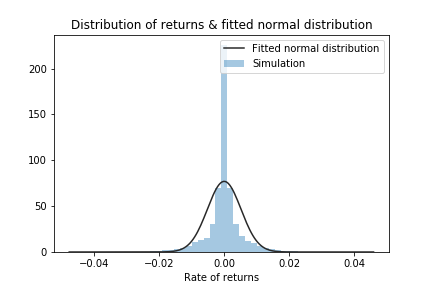
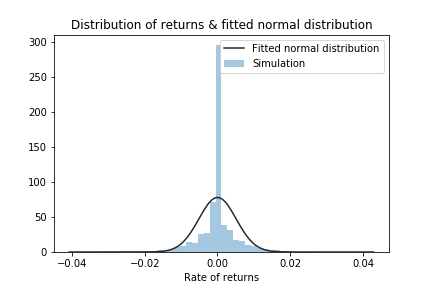
thesis: continued results

diff --git a/thesis/content/results.tex b/thesis/content/results.tex
@@ -80,9 +80,86 @@ simulation starting with higher market price.
 
 
 % stylized facts
-The stylized facts are also inline with the literature. There is no autocorrelation
-in the relative changes in the market price as seen in figure n. In addition, with
-current setup there are some volatility clusters with 10 trade window.
+% Somethging about filtering fist 100 out and now inspecting stylized facts
+As stated before, the representativeness of real markets is inspected using
+stylized facts. In order to have represenative data set to test the facts, the
+sessions before reaching the price equilibrium are filtered out. 
+As observed in ~\ref{fig:basic_trades}, the model reaches the equlibrium 
+price before the 100th trading session and after that both of the initiations 
+yield similar price and quantity processes. Therefore, for simplicity the
+the first 100 trading sessions are filtered out from the simulation with
+lower initiated market price and the data produced from it is used for 
+studying the stylized facts in the model.
 
+The autocorrelation function (ACF) and partial autocorrelation function (PACF) for the last prices of
+each session are plotted in the figure ~\ref{fig:basic_autocorr}. ACF and PACF indicate that there is 
+an autoregressive (AR) process for up to 15 lags and a moving average (MA) process to the third lag. Therefore
+there is a clear autocorrelation in the model with the stated simulation parameters. This
+observation is possibly caused by option for doing nothing which occurs with slightly higher than
+one-third probability due to slight chance for invalid order submission. As the price in each order
+is dependent on the market price which was when the order was created and as there is a chance that
+this order will stay in the order book for some time, the price in the past has influence on the
+current structure of the order book and therefore a past market prices has effect on the upcoming prices.
+This indicates that if the zero intelligent traders are given the option to not change their orders and
+the market is structured as continuous double auction, autocorrelation may be inevitable. Either the
+rationality of the traders regarding to when they decide to do nothing should be increased, the option
+to do nothing should be taken off or limit the lifetime of an order in order to reduce the autocorrelation.
+In addition, \citet{StylizedFacts01} also discussed that in the real markets there may be autocorrelation 
+of returns for small intraday time periods, such as 20 minutes, due to market microstructure and therefore
+one trading session in the simulation may be more closer, in terms of interpretation, to a smaller period 
+than one day.
+% Something about intra day autocorrelation in real markets. Maybe if a trading session is considered as
+% trading hour, the simulation is more realistic?
+
+\begin{figure}
+    \includegraphics[width=\linewidth]{plots/basic_autocorrelation.png}
+    \caption{Autocorrelation of the simulation after 100 session}
+    \label{fig:basic_autocorr}
+\end{figure}
+
+% Fat-tailed returns
+The returns are, however, fat-tailed as can be observed from figure 
+~\ref{fig:basic_return_fitdistr}. The distribution of returns decay
+initially rapidly when moving from the mean compared to the fitted
+normal distribution but the tails of the distributions stretch
+further due to high kurtosis. However, the distribution does have
+significantly higher spike in the mean than what is observed, for 
+example, in the figure~\ref{fig:sp_fat_tails} regarding to S\&P500's
+fat tails. 
+% basic_fat_tails_cumdist
+
+
+\begin{figure}
+    \centering
+    \begin{subfigure}{.5\textwidth}
+      \centering
+      \includegraphics[width=\linewidth]{plots/basic_fat_tails.png}
+      \caption{Return distribution}
+      \label{fig:basic_return_fitdistr}
+    \end{subfigure}%
+    \begin{subfigure}{.5\textwidth}
+      \centering
+      \includegraphics[width=\linewidth]{plots/basic_fat_tails_cumdist.png}
+      \caption{Return cumulative distribution}
+      \label{fig:basic_return_cumdistr}
+    \end{subfigure}
+    \caption{Return distributions after 100 sessions}
+    \label{fig:basic_return_distr}
+\end{figure}
+
+
+% Volatility clusters
+The autocorrelation of the volatilities in figure ~\ref{fig:basic_volaclusters}
+indicate there are some volatility clusters in short term. Both, ACF and PACF, shows slow
+decay indicating that there are both of the autocorrelation terms, AR and MA,
+present in the volatility of the market price. The effect is, however, rather short term
+as it is not carried over trading sessions as shown in the appendix ~\ref{app:basic_volaclusters_per_session}
+
+
+\begin{figure}
+    \includegraphics[width=\linewidth]{plots/basic_volaclusters_intraday.png}
+    \caption{Volatility Clusters}
+    \label{fig:basic_volaclusters}
+\end{figure}
 
 \subsection{Multi asset simulation}
